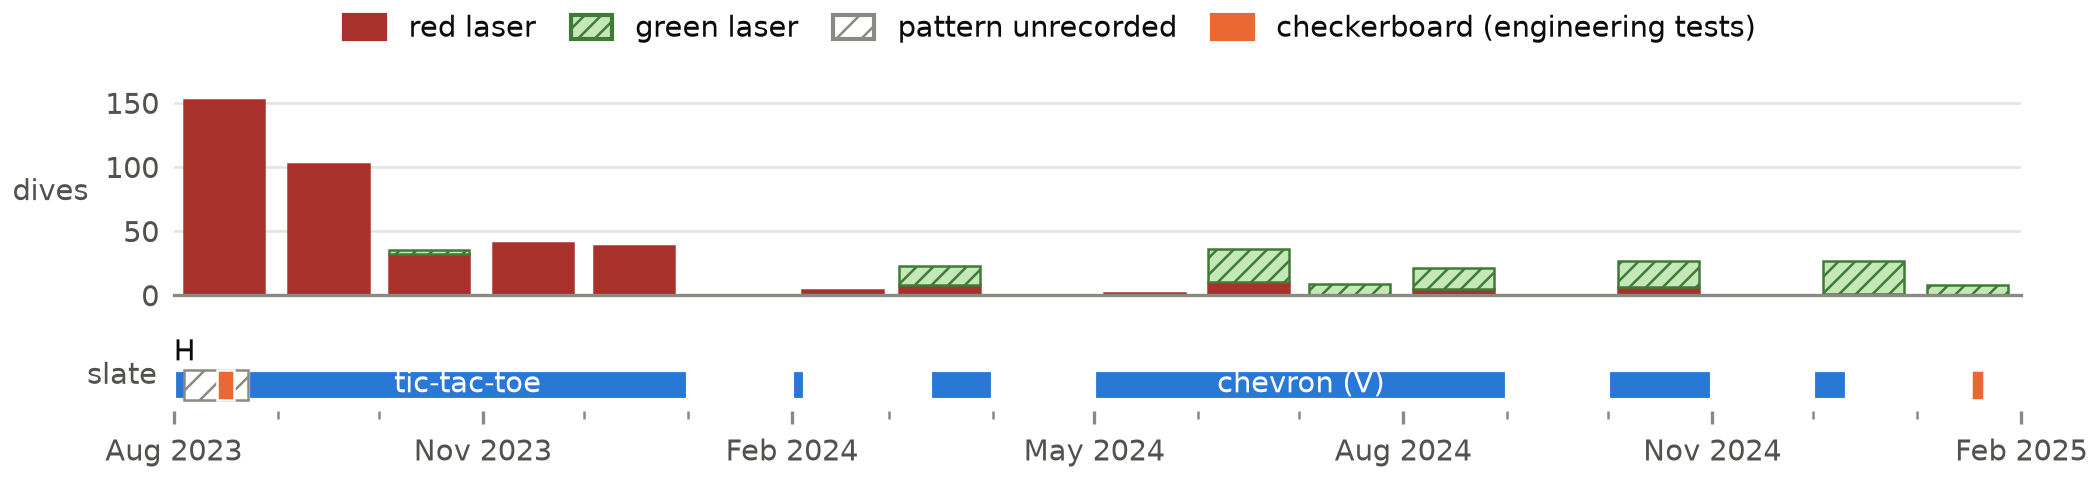
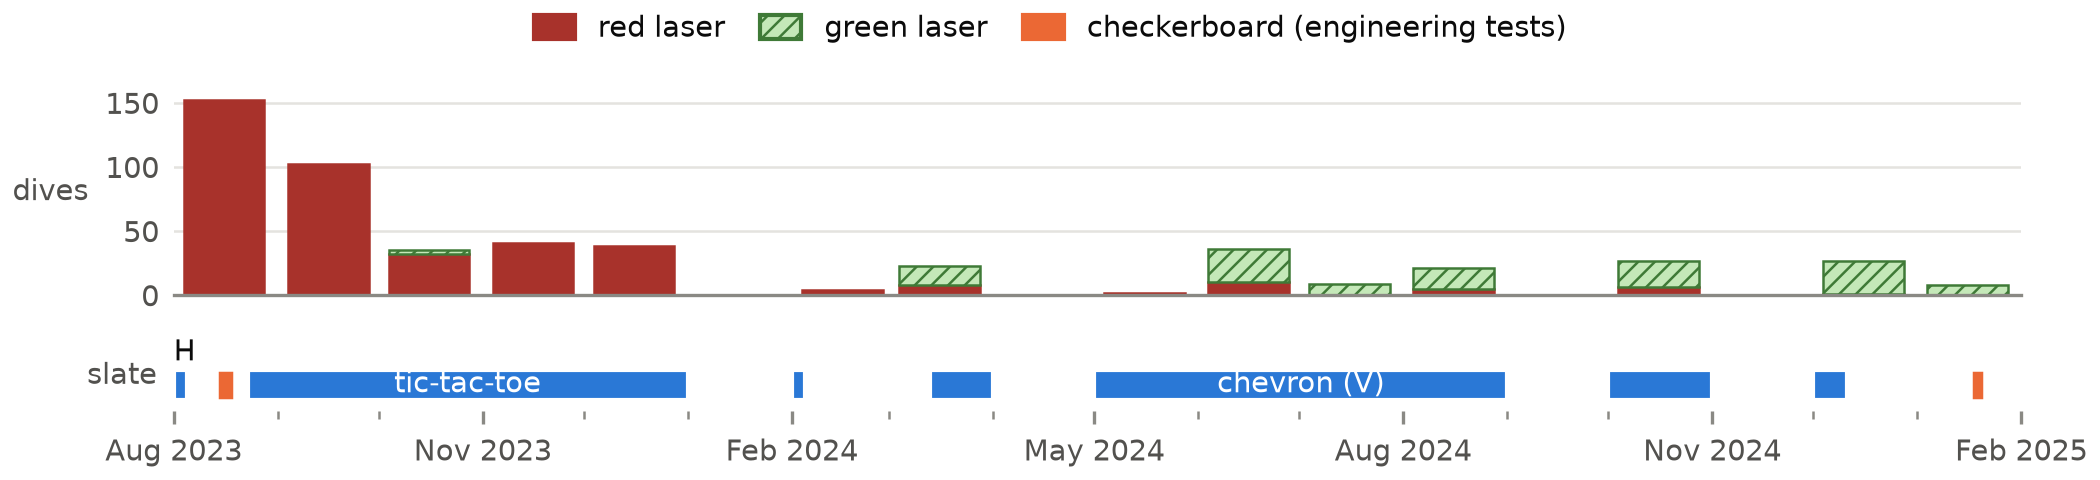
fig: timeline drops the "pattern unrecorded" mark
The only field dive between slate spans, dive 45 (2023-08-17), has no slate
and likely predates the slate procedure (the author); the gap now stays
blank, and the script stops if another field dive lands in a gap.

Changed region(s): [[0.1548, 0.0, 0.8357, 0.0938], [0.0929, 0.75, 0.1238, 0.8438]]

diff --git a/analysis/codesign/fig_timeline.py b/analysis/codesign/fig_timeline.py
@@ -18,8 +18,9 @@ Time axis 2023-08 .. 2025-01 (the collection period). Two lanes:
   slate   H, tic-tac-toe, chevron (V), each from the first to the last dive known to use it, breaking at months
           with no dives: dive.dive_slate_id (36 dives), a dive's calibration dive's slate
           (data/db_extracts/timeline_slate_links.psv, sql/extract_timeline_slate_links.sql, 15 more), slate frames
-          read by eye (analysis/codesign/slate_pattern_reads.csv, image ids listed). Hatched: field dives whose
-          pattern is unrecorded (2023-08-17, 2024-02-28). Orange: checkerboard engineering tests, 2023-08-14..18
+          read by eye (analysis/codesign/slate_pattern_reads.csv, image ids listed). Gaps stay blank: the one
+          field dive in a gap, dive 45 (2023-08-17), has no slate and likely predates the slate procedure (the
+          author, 2026-10-26). Orange: checkerboard engineering tests, 2023-08-14..18
           (dive.calibration_target_id) and 2025-01-17 (TG-7 sessions; analysis/codesign/timeline.yaml).
 One key row; direct labels only for the slate pattern names. Dates are tabulated by
 analysis/codesign/timeline_dates.py.
@@ -156,7 +157,7 @@ def main():
     dx.set_ylabel("dives", rotation=0, ha="right", va="center", labelpad=4, color=INK2)
     dx.grid(axis="y", color=GRID, lw=0.6); dx.set_axisbelow(True)
 
-    # lane 2: slate pattern; hatched = field dives with the pattern unrecorded; orange = checkerboard tests
+    # lane 2: slate pattern; orange = checkerboard tests
     known = D.assign(pattern=D.slate.map(pattern))[["t", "pattern"]].dropna()
     link = pd.read_csv(REPO / "data/db_extracts/timeline_slate_links.psv", sep="|", header=None, names=["dive_id", "slate"])
     link = link.merge(D[["dive_id", "t"]], on="dive_id").assign(pattern=lambda d: d.slate.map(pattern))[["t", "pattern"]]
@@ -171,10 +172,8 @@ def main():
             widest = max(parts, key=lambda q: q[1] - q[0])
             sx.text(x(widest[0] + (widest[1] - widest[0]) / 2), 0, p, va="center", ha="center", color="white", fontsize=FS)
     order = sorted(spans.items(), key=lambda kv: kv[1][0])
-    for (_, (_, b0)), (_, (a1, _)) in zip(order, order[1:]):
-        if len(D[(D.t >= b0) & (D.t < a1) & (D.env == "reef")]):
-            for pa, pb in pieces(b0, a1, empty):
-                lane_box(sx, pa, pb, fc="white", ec=MUTED, lw=0.6, hatch="////")
+    gap = pd.concat([D[(D.t >= b0) & (D.t < a1) & (D.env == "reef")] for (_, (_, b0)), (_, (a1, _)) in zip(order, order[1:])])
+    assert gap.dive_id.tolist() == [45], gap.dive_id.tolist()   # predates the slate procedure; any other needs a look
     for a, b in CB_TESTS:
         lane_box(sx, a, pd.Timestamp(b) + pd.Timedelta(days=1), fc=ORANGE, ec="white", lw=0.6, zorder=3)
     h0 = spans["H"]
@@ -195,9 +194,8 @@ def main():
 
     key = [Patch(facecolor=RED, edgecolor=RED, label="red laser"),
            Patch(facecolor=GREEN, edgecolor=GREEN_HATCH, hatch="//////", label="green laser"),
-           Patch(facecolor="white", edgecolor=MUTED, hatch="////", label="pattern unrecorded"),
            Patch(facecolor=ORANGE, edgecolor=ORANGE, label="checkerboard (engineering tests)")]
-    fig.legend(handles=key, loc="outside upper center", ncol=4, frameon=False, handlelength=1.4, handleheight=0.9, columnspacing=1.2, borderaxespad=0.1)
+    fig.legend(handles=key, loc="outside upper center", ncol=3, frameon=False, handlelength=1.4, handleheight=0.9, columnspacing=1.2, borderaxespad=0.1)
 
     OUT.mkdir(exist_ok=True)
     fig.savefig(OUT / "fig_timeline.pdf", metadata={"Creator": None, "Producer": None, "CreationDate": None, "ModDate": None})
